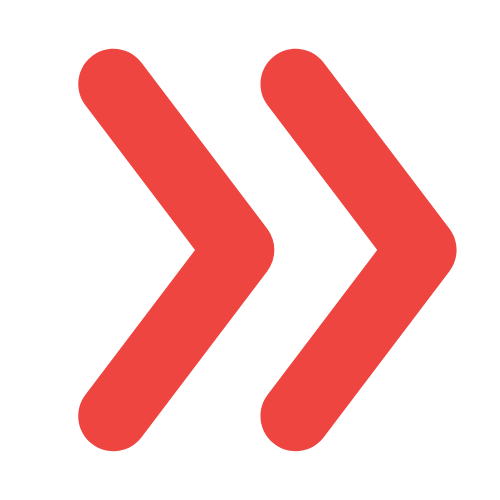
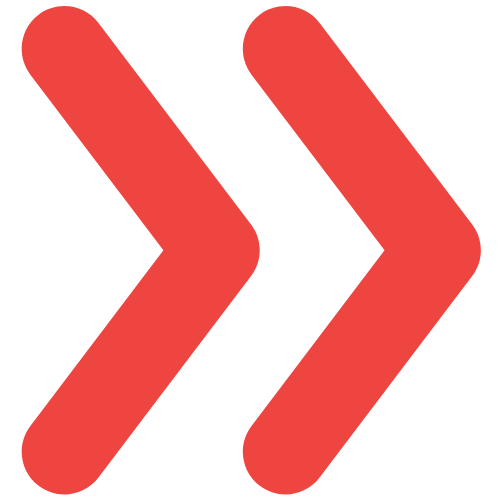
Modificando estilos, se agregó botón para ir a la página anterior, código comentado

diff --git a/DEV010-movie-challenge-fw/src/components/Home/Home.tsx b/DEV010-movie-challenge-fw/src/components/Home/Home.tsx
@@ -5,71 +5,91 @@ import '../../styles/App.css';
 import './Home.css';
 import Header from '../../utils/header';
 import nextImage from '../../assets/next-image.png';
+import previousImage from '../../assets/previous-image.png';
 
 const Home = () => {
+  // Acá usamos el Hook useState para establecer los estados de movies y de currentPage
   const [movies, setMovies] = useState<Movie[]>([]);
   const [currentPage, setCurrentPage] = useState(1);
 
+  //Usamos useEffect para ejecutar efectos de componentes funcionales externos
   useEffect(() => {
+
+    //Primer parámetro Configuraciones
     const apiUrl = buildMovieApiUrl(currentPage);
-    // Opciones para la solicitud HTTP
-    const options: RequestInit = {
+    
+    const options: RequestInit = { // Opciones para la solicitud HTTP
       method: 'GET',
       headers: {
         accept: 'application/json',
         Authorization: API_KEY,
       },
     };
-    //Llamamos a la funcion requestMovies para que muestre la data.
-    requestMovies(apiUrl, options)
+    
+    requestMovies(apiUrl, options)//Llamamos a la funcion requestMovies para que muestre la data.
       .then((data) => {
         setMovies(data.results);
       })
       .catch((error) => {
         console.error('Error:', error);
       });
+    // Segundo parámetro Dependencias es currentPage (se va a ejecutar lo anterior cada vez que cambie currentPage)
   }, [currentPage]);
 
   //Funcion para manejar el cambio de página
-
   const handleNextPage = () => {
     // Incrementa el número de página
     setCurrentPage(currentPage + 1);
   };
+  const handlePreviousPage = () => {
+    // Incrementa el número de página
+    setCurrentPage(currentPage - 1);
+  };
 
-
+  
+  // Renderizamos el componente
   return (
     <>
+      {/*Agregamos el header*/}
       <div>
         <Header/>
       </div>
-
+      {/*Agregamos el contenedor principal*/}
       <div className='full-container'>
-
+        {/*Agregamos el contenedor de las tarjetas*/}
         <div className='movie-cards'>
+          {/*Recorremos el arreglo movies y creamos una tarjeta con link, imagen y texto para cada una*/}
           {movies.map((movie: Movie, i: number) => (
             <div className='movie-box' key={i}>
               <a href='#' className='link-movie'>
                 <img
                   className='movie-img'
                   src={`https://image.tmdb.org/t/p/w154/${movie.poster_path}`}
-                  alt=""
+                  alt={movie.original_title}
                 />
               </a>
               <div className='poster-text'>
                 <p className='movie-title'>{movie.original_title}</p>
-                <p className='movie-date'>
-                  {new Date(movie.release_date).getFullYear()}
+                <p className='movie-date'>{new Date(movie.release_date).getFullYear()}
                 </p>
               </div>
             </div>
           ))}
-  
         </div>
+
+        {/* Sección que contiene los botones*/}
         <div className="centered-container">
           {/* Botón para avanzar a la siguiente página */}
+          {currentPage > 1 && (
+            <button className= 'button-next' onClick={handlePreviousPage}>
+              <img src = {previousImage} className= 'previousImage' alt = 'Arrow left' />Previous page
+            </button> 
+          )}
+          {/* Se llama a la función handleNextPAge cada vez que se hace click */}
           <button className= 'button-next' onClick={handleNextPage}>Load More
             <img src = {nextImage} className= 'nextImage' alt = 'Arrow right' /></button>
+
+          
         </div>
 
       </div>

diff --git a/DEV010-movie-challenge-fw/src/components/Home/Home.css b/DEV010-movie-challenge-fw/src/components/Home/Home.css
@@ -22,7 +22,7 @@ body {
     color: white;
     border: none;
     margin-left: 40px;
-    
+    outline: none !important;
   }
   .movie-language:hover {
     filter: drop-shadow(0 0 2em #C72C41);
@@ -32,7 +32,7 @@ body {
     color: white;
     border: none;
     margin-left: 20px;
-    
+    outline: none !important;
   }
 
   .sort-by:hover {
@@ -55,7 +55,7 @@ body {
   .header-container {
     display: flex;
     align-items: center;
-    width: 70%;
+    width: 60%;
   }
 
   .full-container {
@@ -64,32 +64,38 @@ body {
     justify-content: center;
     align-items: center;
     flex-direction: column;
+    padding: 40px 0px;
+
   }
 
   .movie-cards {
-    width: 70%;
+    width: 60%;
     grid-template-columns: repeat(auto-fill, minmax(200px, 1fr));
     display: grid;
-    margin: 40px 40px 0px 40px;
-    padding: 10px;
     grid-template-rows: max-content;
     justify-content: center;
-    
-     
+    align-items: center;
+     background-color: #2D132C;
+     box-shadow: 2px 2px 2px rgba(121, 109, 109, 0.2);
+     border-radius: 1%;
   }
 
   .movie-box {
     display: flex;
     flex-direction: column;
+    justify-content: center;
     align-items: center;
-    overflow: hidden; /* Agrega esta propiedad */
-    padding: 0px;
-    height: 375px;
+    height: auto;
     width: 200px;
-    margin-bottom: 20px;
-    box-shadow: 0 8px 8px rgba(237, 224, 224, 0.2);
-    border-radius: 2%;
+    margin: 20px 15px;
+    box-shadow: 0 2px 4px rgba(219, 208, 208, 0.395);
+    border-radius: 1%;
+    transition: transform 0.3s;
     
+  }
+
+  .movie-box:hover {
+    transform: scale(1.1); /* Agrandar al pasar el mouse */
   }
 
   .link-movie {
@@ -109,18 +115,17 @@ body {
     flex-direction: column;
     background-color: #C72C41;
     width: 200px;
-    height: 90px;
-    font-size: 0.8em; /* Tamaño de fuente relativo */
+    height: 80px;
+    font-size: 0.7em; /* Tamaño de fuente relativo */
     font-family: 'Franklin Gothic Medium', 'Arial Narrow', Arial, sans-serif;
     text-align: center;
-    overflow: hidden;
     text-overflow: ellipsis;
     justify-content: center;
+    padding: 5px;
+    box-sizing: border-box;
   }
 
-  .movie-title {
-    margin: 5px;
-  }
+
 
   .movie-date {
     margin: 5px;
@@ -134,6 +139,7 @@ body {
     border: none;
     font-family: 'Franklin Gothic Medium', 'Arial Narrow', Arial, sans-serif;
     font-size: 25px;
+    outline: none !important;
   }
 
   .button-next:hover {
@@ -142,17 +148,22 @@ body {
 
 
   .nextImage {
-    width: 1.2em;
-    height: 1.2em;
+    width: 1em;
+    height: 1em;
     margin-left: 20px;
   }
-
+  
+  .previousImage {
+    width: 1em;
+    height: 1em;
+    margin-right: 20px;
+  }
   .centered-container {
     display: flex;
     justify-content: center;
     align-items: center;
-    flex-direction: column; /* Centrar verticalmente */
+    flex-direction: grid; /* Centrar verticalmente */
     margin-bottom: 20px;
-    margin-top: 0px;
+    margin-top: 20px;
 
   }

diff --git a/DEV010-movie-challenge-fw/src/requests/moviesRequest.ts b/DEV010-movie-challenge-fw/src/requests/moviesRequest.ts
@@ -1,3 +1,4 @@
+//Definimos el tipo de dato Movie que vamos a obtener de las peliculas
 export type Movie = {
   adult: boolean;
   backdrop_path: string;
@@ -12,24 +13,27 @@ export type Movie = {
   vote_count: number;
 };
 
+//Definimos la respuesta de la Api que nos dará un arreglo de objetos tipo Movie (definido anteriormente)
 export type ApiResponse = {
   results: Movie[];
-  // Agrega más campos de la respuesta si los necesitas
 };
 
+//Guardamos en una constate la Api Key que necesitaremos como autorizavión
 export const API_KEY = 'Bearer eyJhbGciOiJIUzI1NiJ9.eyJhdWQiOiI0ZGUzMGMxZGY5ODEyZjAwZjFjOTZjMGNjYzI2OGZmZSIsInN1YiI6IjY1Mjk0Zjk1NjI5YjJjMDBjNTllNjM3ZiIsInNjb3BlcyI6WyJhcGlfcmVhZCJdLCJ2ZXJzaW9uIjoxfQ.YcDVFDVV7B2k1qCjx1JHzsKXiew57qQD58OE03_0bmk'; 
+
+//Creamos una función que construya la URL según la página requerida
 export const buildMovieApiUrl = (page: number) => {
   return `https://api.themoviedb.org/3/discover/movie?include_adult=false&include_video=false&language=en-US&page=${page}&sort_by=popularity.desc&with_genres=99`;
 };
 
-
+//Creamos una promesa para hacer la solicitud HTTP con fetch y obtenerla manejando los errores
 export const requestMovies = (url: string, options: RequestInit): Promise<ApiResponse>=> {
   return fetch(url, options)
     .then(async (res) => {
       if (!res.ok) {
         throw new Error(`HTTP error! Status: ${res.status}`);
       }
-
+      //Indicamos que la data es la ApiResponse de las peliculas
       const data = await res.json();
       return data as ApiResponse;
     })
